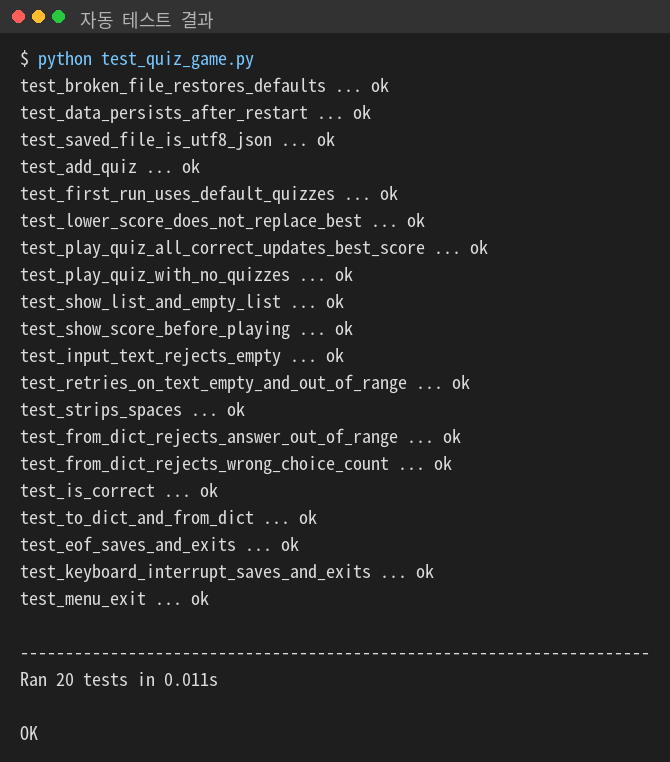
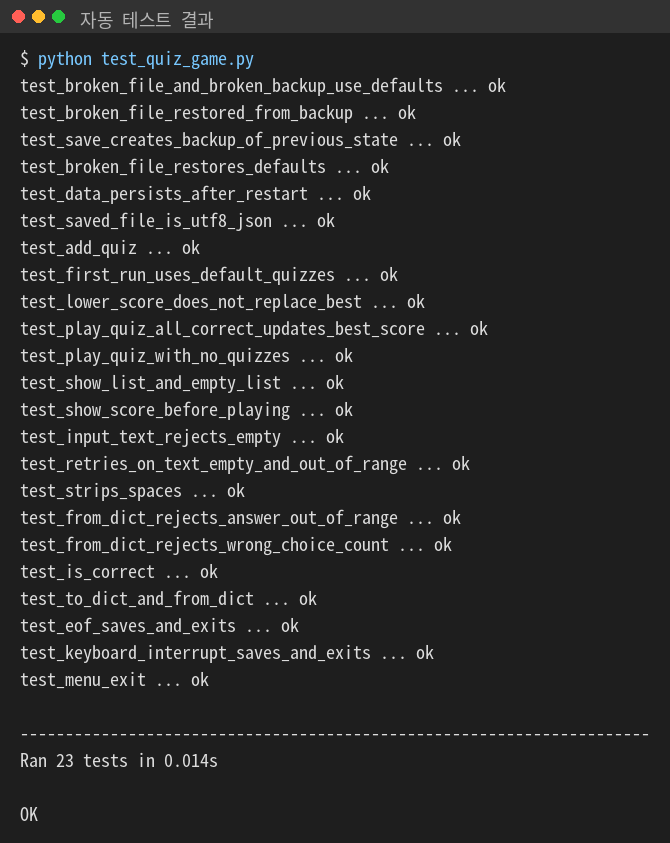
docs: Git 작업 기록, 설계 설명, 백업 복구 설명 추가

diff --git a/README.md b/README.md
@@ -31,7 +31,7 @@ python3 main.py      # Windows는 python main.py
 - 입력 앞뒤 공백 제거
 - 빈 입력, 숫자가 아닌 입력, 범위 밖 숫자 → 안내 후 다시 입력
 - Ctrl+C, 입력 종료(EOF) → 안내 후 저장하고 안전하게 종료
-- `state.json`이 없으면 기본 퀴즈 사용, 손상되면 안내 후 기본 퀴즈로 복구
+- `state.json`이 없으면 기본 퀴즈 사용, 손상되면 안내 후 **백업(`state.json.bak`)에서 복구**, 백업도 없거나 손상되면 기본 퀴즈로 초기화
 
 ## 5. 실행 화면
 
@@ -43,8 +43,9 @@ python3 main.py      # Windows는 python main.py
 | 재실행 후 목록·최고 점수 유지 | ![데이터 유지](docs/img/04_list_score.png) |
 | 점수 확인 (아직 기록 없음) | ![점수 없음](docs/img/05_score_empty.png) |
 | Ctrl+C 입력 시 저장 후 안전 종료 | ![Ctrl+C](docs/img/06_ctrl_c.png) |
-| 손상된 state.json 자동 복구 | ![파일 복구](docs/img/07_broken_file.png) |
-| 자동 테스트 20개 통과 | ![테스트](docs/img/08_tests.png) |
+| 손상된 state.json 복구 (백업 없음 → 기본 퀴즈) | ![파일 복구](docs/img/07_broken_file.png) |
+| 손상된 state.json 복구 (백업에서 복구, 추가 퀴즈·점수 유지) | ![백업 복구](docs/img/09_backup_restore.png) |
+| 자동 테스트 23개 통과 | ![테스트](docs/img/08_tests.png) |
 
 ## 6. 테스트
 
@@ -62,6 +63,7 @@ python test_quiz_game.py      # Mac은 python3
 | TestInput | 공백 제거, 문자·빈 입력·범위 밖 숫자 재입력, 빈 문자열 거부 |
 | TestGameFeatures | 기본 퀴즈 로드, 풀기·최고 점수 갱신, 추가, 목록, 점수, 퀴즈 없음 처리 |
 | TestFileIO | 재실행 후 데이터 유지, UTF-8 JSON 저장, 손상 파일 복구 |
+| TestBackup | 저장 전 백업 생성, 손상 시 백업에서 복구, 백업까지 손상 시 기본 퀴즈 |
 | TestSafeExit | Ctrl+C·EOF 시 저장 후 안전 종료, 메뉴 종료 |
 
 ## 7. 파일 구조
@@ -71,9 +73,10 @@ codyssey_mission2/
 ├── quiz_game.py     # QuizGame 클래스: 메뉴, 게임 진행, 입력 처리, 저장/불러오기
 ├── quiz.py          # Quiz 클래스: 문제 1개 (출력, 정답 확인, dict 변환)
 ├── default_data.py  # 기본 퀴즈 7개
-├── test_quiz_game.py # 자동 테스트 20개
+├── test_quiz_game.py # 자동 테스트 23개
 ├── docs/img/        # README 실행 화면 이미지
-├── state.json       # 실행 시 자동 생성되는 데이터 파일
+├── state.json       # 실행 시 자동 생성되는 데이터 파일 (Git 제외)
+├── state.json.bak   # 저장 직전 상태의 백업 파일 (Git 제외)
 ├── .gitignore
 └── README.md
 ```
@@ -104,8 +107,17 @@ codyssey_mission2/
 | `choices` | list[str] | 선택지 4개 |
 | `answer` | int | 정답 번호 (1~4) |
 | `best_score` | int 또는 null | 최고 정답 수 (아직 안 풀었으면 null) |
-- clone 실습으로 추가한 줄
 
+**백업과 복구 (state.json.bak)**
+
+| 상황 | 동작 |
+|---|---|
+| 저장할 때 | 기존 `state.json`을 `state.json.bak`으로 복사한 뒤 새 내용을 씀 |
+| 첫 실행 (파일 없음) | 기본 퀴즈 7개 사용 |
+| `state.json` 손상, 백업 정상 | "백업 파일에서 복구합니다" 안내 후 백업 내용으로 복구 |
+| 둘 다 손상 또는 백업 없음 | "기본 퀴즈 데이터로 복구합니다" 안내 후 기본 퀴즈로 초기화 |
+
+복구한 뒤 다시 저장할 때는 백업을 만들지 않습니다. 손상된 파일이 정상 백업을 덮어쓰는 것을 막기 위해서입니다. 코드 위치: `quiz_game.py`의 `load()`, `read_state()`, `save()`
 
 ## 9. 개발 환경
 
@@ -113,4 +125,127 @@ codyssey_mission2/
 |---|---|
 | OS | Windows |
 | Python | 3.11.6 |
-| Git | 2.56.0 |- pull practice 2026-11-12
+| Git | 2.56.0 |
+
+## 10. 설계 설명
+
+### 클래스를 사용한 이유
+
+함수만으로도 게임을 만들 수 있지만, 그러면 퀴즈 목록과 최고 점수를 함수마다 매개변수로 넘기거나 전역 변수로 둬야 합니다. 클래스는 **데이터와 그 데이터를 다루는 기능을 한 덩어리로 묶습니다.**
+
+| 구분 | 함수만 사용 | 클래스 사용 (이 프로젝트) |
+|---|---|---|
+| 데이터 보관 | 전역 변수 또는 매번 매개변수로 전달 | `self.quizzes`, `self.best_score`에 보관 |
+| 퀴즈 1개 표현 | dict (`q["answer"]`), 키 오타를 실행 전에 알기 어려움 | `Quiz` 객체 (`quiz.answer`), 정답 확인은 `quiz.is_correct()`로 통일 |
+| 역할 분리 | 파일이 커지면 어느 함수가 무엇을 책임지는지 흐려짐 | `Quiz`는 문제 1개, `QuizGame`은 게임 전체로 책임이 나뉨 |
+| 단점 | 구조가 단순해 작은 프로그램엔 충분 | 코드 양이 조금 늘고 `self` 개념을 알아야 함 |
+
+### JSON 저장 방식의 한계
+
+JSON은 사람이 읽을 수 있고 Python의 dict·list와 바로 바뀌어서 이 규모에 적합합니다. 다만 한계가 있습니다.
+
+| 한계 | 이유 | 이 프로젝트에서 | 대안 |
+|---|---|---|---|
+| 속도 | 1개만 바꿔도 파일 전체를 다시 읽고 씀 | 퀴즈 수십 개라 문제 없음 | SQLite 같은 DB는 바뀐 부분만 씀 |
+| 메모리 | 파일 전체를 한 번에 메모리에 올림 | 수 KB 수준이라 문제 없음 | 수만 건 이상이면 DB나 나눠 읽기 |
+| 동시 사용 | 두 프로그램이 동시에 쓰면 한쪽 내용이 사라질 수 있음 | 혼자 쓰는 콘솔 게임이라 해당 없음 | DB는 잠금 기능을 제공 |
+| 손상 | 쓰는 도중 꺼지면 파일이 깨질 수 있음 | **백업 파일로 대비** (8장) | DB의 트랜잭션 |
+
+## 11. Git 작업 기록
+
+### 커밋 기록 (10개 이상)
+
+```
+> git log --oneline --graph --all
+* ad74caa (HEAD -> main, origin/main, origin/HEAD) docs: clone/pull 실습 기록
+* f43e093 docs: README에 개발 환경 추가
+* fd2d9ef chore: state.json을 Git 추적에서 제외
+* 5c2d940 docs: 실행 화면 이미지와 테스트 설명 추가
+* 32a954f test: 자동 테스트 20개 추가
+* c538fbf docs: README 마지막 줄 인코딩 수정
+* d7db25f docs: clone 실습 - README 한 줄 추가
+* 8e242d5 docs: README 작성 (개요, 주제, 실행 방법, 기능, 파일 구조, 데이터 설명)
+* f40e46d feat: state.json 저장/불러오기 및 예외 처리 (손상 복구, Ctrl+C·EOF 안전 종료)
+* 97dabb2 refactor: QuizGame 클래스로 게임 구조 정리
+* 8a4078b feat: 최고 점수 확인 및 갱신 기능 구현
+* ca63947 feat: 퀴즈 목록 보기 기능 구현
+* 263e18e feat: 퀴즈 추가 기능 구현 (입력 검증 포함)
+*   faa2e6f merge: feature/play-quiz 브랜치를 main에 병합
+|\
+| * 2f2ec60 (origin/feature/play-quiz) feat: 퀴즈 풀기 기능 구현 (출제, 정답 판정, 결과 표시)
+|/
+* 5aecf2a feat: 기본 퀴즈 데이터 7개 작성 (야구 규칙)
+* 4a1ce41 feat: Quiz 클래스 작성 (출력, 정답 확인, 변환 메서드)
+* d81eb19 feat: 메뉴 출력 및 입력 검증 기능 추가
+* c85074d chore: 초기 설정 (.gitignore, README 추가)
+```
+
+이 README 작성 시점 기준 커밋 19개입니다. 이후 커밋은 GitHub 저장소의 Commits 화면에서 확인할 수 있습니다.
+
+### 커밋 규칙
+
+**한 커밋 = 기능 하나**를 원칙으로 했습니다. 메뉴, Quiz 클래스, 기본 데이터, 퀴즈 풀기, 추가, 목록, 점수를 각각 따로 커밋해서 어느 커밋에서 무엇이 바뀌었는지 바로 알 수 있게 했습니다.
+
+메시지는 `종류: 내용` 형식으로 썼습니다.
+
+| 접두어 | 의미 | 예시 |
+|---|---|---|
+| `feat` | 새 기능 | `feat: 퀴즈 추가 기능 구현 (입력 검증 포함)` |
+| `refactor` | 동작은 그대로 두고 구조만 정리 | `refactor: QuizGame 클래스로 게임 구조 정리` |
+| `test` | 테스트 추가·수정 | `test: 자동 테스트 20개 추가` |
+| `docs` | README 등 문서 | `docs: README 작성 (...)` |
+| `chore` | 설정 등 기타 | `chore: state.json을 Git 추적에서 제외` |
+| `merge` | 브랜치 병합 | `merge: feature/play-quiz 브랜치를 main에 병합` |
+
+### 브랜치 생성과 병합
+
+```
+> git branch -a
+* main
+  remotes/origin/HEAD -> origin/main
+  remotes/origin/feature/play-quiz
+  remotes/origin/main
+```
+
+작업 순서는 이렇습니다.
+
+```
+git checkout -b feature/play-quiz      # 브랜치 만들고 이동
+(퀴즈 풀기 기능 작성 후 커밋 → 2f2ec60)
+git checkout main                      # main으로 돌아옴
+git merge --no-ff feature/play-quiz    # 병합 커밋 faa2e6f 생성
+```
+
+위 커밋 그래프에서 `faa2e6f`의 `|\`, `|/` 모양이 브랜치가 갈라졌다가 합쳐진 기록입니다.
+
+**브랜치를 나눈 이유:** 퀴즈 풀기는 게임의 핵심 기능이라 작업 중 오류가 생기기 쉽습니다. 별도 브랜치에서 작업하면 **완성 전까지 main은 항상 실행 가능한 상태**로 남습니다. 완성하고 확인한 뒤에 main에 합쳤습니다.
+
+**병합의 의미:** 브랜치에서 한 작업을 main에 반영하는 것입니다. `--no-ff` 옵션으로 병합 커밋을 따로 남겨서, 나중에도 "이 기능은 브랜치에서 개발되어 합쳐졌다"는 기록이 그래프에 보이게 했습니다.
+
+### clone과 pull 실습
+
+원래 작업 폴더(`codyssey_mission2`) 외에 실습용 폴더(`m2_clone_test`)를 하나 더 clone했습니다.
+
+```
+> git clone https://github.com/chaewon8227/codyssey_mission2.git m2_clone_test
+Cloning into 'm2_clone_test'...
+remote: Enumerating objects: 64, done.
+remote: Counting objects: 100% (64/64), done.
+remote: Compressing objects: 100% (32/32), done.
+remote: Total 64 (delta 34), reused 61 (delta 31), pack-reused 0 (from 0)
+Receiving objects: 100% (64/64), 443.67 KiB | 15.84 MiB/s, done.
+Resolving deltas: 100% (34/34), done.
+```
+
+실습용 폴더에서 README에 한 줄을 추가해 commit·push(`ad74caa`)한 뒤, 원래 폴더에서 `git pull`로 가져왔습니다. `git reflog`는 내 폴더에서 일어난 Git 작업을 순서대로 보여줍니다.
+
+```
+> git reflog          (원래 작업 폴더)
+ad74caa (HEAD -> main, origin/main, origin/HEAD) HEAD@{0}: pull: Fast-forward
+f43e093 HEAD@{1}: clone: from https://github.com/chaewon8227/codyssey_mission2.git
+```
+
+- `clone: from ...`: GitHub 저장소를 복제한 기록입니다.
+- `pull: Fast-forward`: 다른 폴더에서 올린 `ad74caa`를 가져와 `f43e093`에서 `ad74caa`로 앞당긴 기록입니다.
+
+같은 실습을 첫 작업 PC에서도 한 번 했습니다. 커밋 `d7db25f`(clone 실습 - README 한 줄 추가)가 그 기록입니다.
